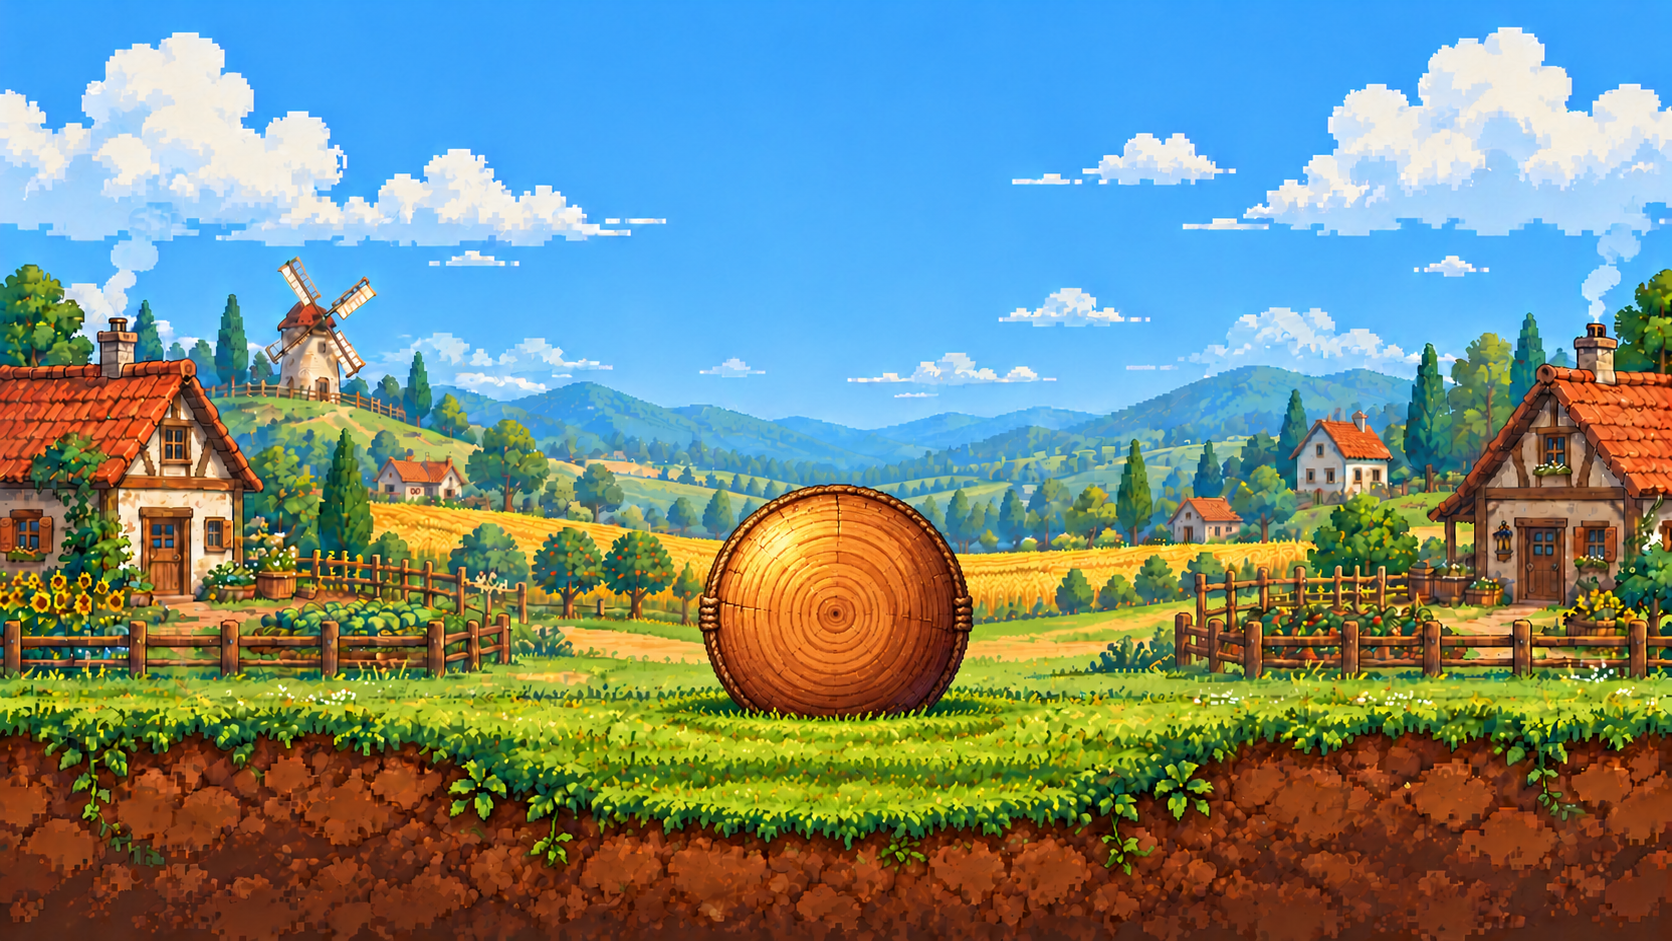
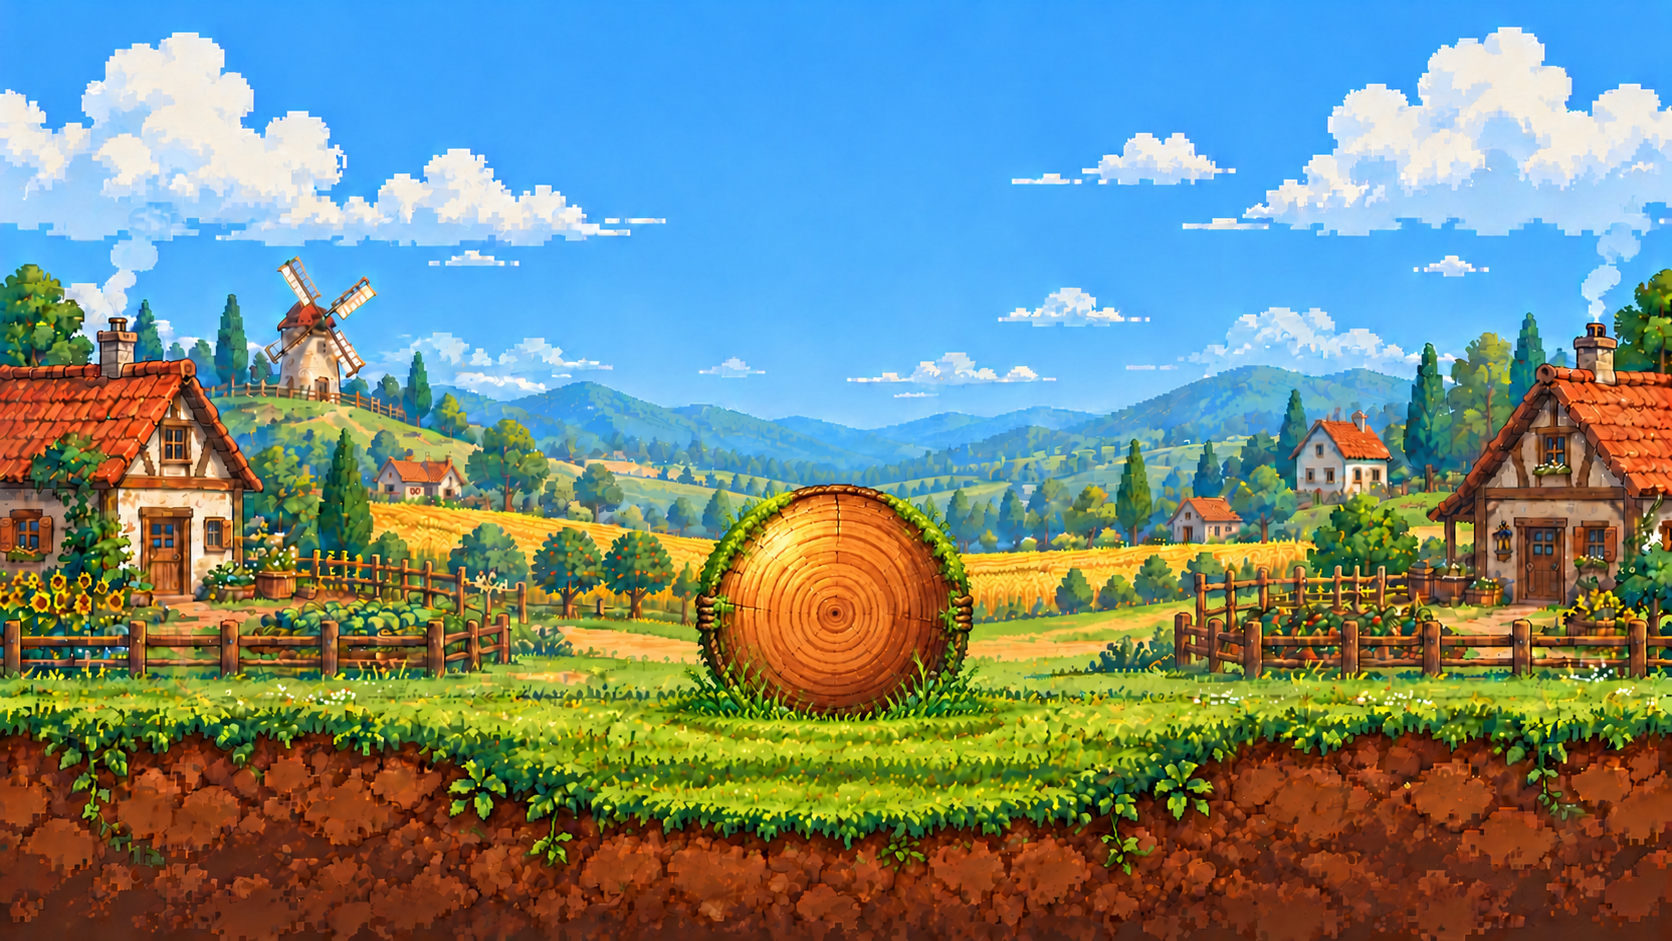
Blend wooden fulcrum into farmland with grass and moss

diff --git a/README.md b/README.md
@@ -4,7 +4,7 @@ A local two-player 2D pixel-art game made with Unity and VS Code. A chibi boy an
 
 <p align="center"><img src="Docs/gameplay_layout.png" alt="Full desktop game layout: two players on a balancing plank above a round wooden fulcrum in a farming village" width="960"></p>
 
-> Full 16:9 layout captured from the Unity scene. The plank and circular wooden-log fulcrum share honey-brown timber, matching rope details and visible woodgrain; farmhouses, fields and a windmill frame the central play area. Character sprite sheets are kept in the project assets and are not displayed in this README.
+> Full 16:9 layout captured from the Unity scene. The plank and circular wooden-log fulcrum share honey-brown timber, matching rope details and visible woodgrain. Grass and moss fringe the fulcrum’s curved rim and base to blend with the land; farmhouses, fields and a windmill frame the central play area. Character sprite sheets are kept in the project assets and are not displayed in this README.
 
 ## Download & play
 
@@ -69,7 +69,7 @@ The plank is a Rigidbody2D hinged at its center with ±16° limits and a gentle 
 - **Smooth motion:** interpolated player/plank physics, 0.08-second movement smoothing and eased action/emote poses. The weighted plank uses angular damping and progressive resistance before its ±16° hinge limits. Restart clears stored movement smoothing.
 - **Physics scene:** player Rigidbody2Ds and capsule colliders on a hinged plank.
 - **32 original animation frames** used for idle, walk, jump and hurt, plus programmatic combat hand effects.
-- **Desktop 16:9 farming village** with farmhouses, fields, clouds, a windmill and a round wooden fulcrum supporting the plank.
+- **Desktop 16:9 farming village** with farmhouses, fields, clouds, a windmill and a grass-trimmed round wooden fulcrum supporting the plank.
 - **Original source retained:** `CharacterController2DP2.bin` is unchanged; the active controller uses Unity 6 `linearVelocity` instead of deprecated `velocity`. Companion scripts were added after the user authorized new code.
 
 ## Controls

diff --git a/Docs/ASSET_GUIDE.md b/Docs/ASSET_GUIDE.md
@@ -1,7 +1,7 @@
 # Current asset guide
 
 - `Assets/Art/Characters/two_players.png`: original transparent 1254 × 1254 sheet. Four frames each for boy idle/walk/jump/hurt, then girl idle/walk/jump/hurt. Native importer Sprite subassets are alpha-trimmed by PlayableSceneBuilder.
-- `Assets/Art/Backgrounds/farm_village_wood_ball.png`: farming village with a circular wooden-log fulcrum, warm woodgrain and rope detail. Replaces the former trunk and roots. Uniform overscan preserves the round shape and aligns the support with the plank.
+- `Assets/Art/Backgrounds/farm_village_wood_ball.png`: farming village with a circular wooden-log fulcrum, warm woodgrain, rope detail and a green grass/moss fringe along the curved rim and base. Replaces the former trunk and roots. Uniform overscan preserves the round shape and aligns the support with the plank.
 - `Assets/Art/Props/farm_balance_plank.png`: transparent rustic plank, rope-bound ends and a central wooden saddle.
 - `Assets/Art/UI/pixel_hand.png`: native pixel hand effect used for punch/push feedback.
 - `Assets/Art/Fonts/Tiny5.ttf`: pixel font under SIL OFL 1.1; license alongside the font.
@@ -16,3 +16,5 @@ The current wooden ball is reduced about 25% for a more balanced composition. It
 ### Player scorecard icons
 
 The boy and girl scorecards reuse each character’s first idle Sprite subasset from `two_players.png` as a UI Image. Each icon preserves its aspect ratio inside a small timber badge beside the name/health/wins text; no extra texture import or generated portrait file is required.
+
+The grass-trimmed fulcrum edit retains the 1672 × 941 canvas and round support placement. Its top contact point is clear for the plank. The exact built-in imagegen edit prompt is stored as `grass_wooden_fulcrum` in `generation_prompts.json`.

diff --git a/Docs/VALIDATION.md b/Docs/VALIDATION.md
@@ -66,3 +66,7 @@ The earlier 17-test suite passed on Unity 6000.3.26f1 after the popup and audio 
 All 20 PlayMode tests passed on Unity 6000.3.26f1 after these changes. Winner celebrations were checked for both players, including expiry, draw behavior, victory audio and immediate restart cleanup. The movement test exercises acceleration, reversal, stopping and restart drift. The plank test measures per-step angle changes, hinge bounds and angular settling after a repeatable impulse, then confirms it still responds to uneven player weight. Physics interpolation is enabled on both characters and the plank.
 
 The updated full-layout screenshot includes matching boy/girl icons in the two farm scorecards. Frame-rate perception and controller feel should still be checked on the target device; automated physics checks do not measure display performance. Original CharacterController2DP2.bin is unchanged. No app or APK was created.
+
+## Grass and moss on the round fulcrum
+
+The existing background was edited with built-in imagegen to add a grass/moss fringe and ground tufts around the wooden circle. The 1672 × 941 canvas, asset GUID and scene placement are retained. Unity 6000.3.26f1 imported the image and captured the refreshed 1920 × 1080 layout successfully; the image was visually inspected for round support proportions, exposed plank contact, player icons and clear HUD. This is an artwork-only update; the 20-test gameplay result above is from the preceding gameplay verification and was not rerun. No app/APK was built.

diff --git a/Docs/DEVELOPMENT.md b/Docs/DEVELOPMENT.md
@@ -69,3 +69,7 @@ A sole winner automatically triggers a 2.4-second gold “I DID IT!” emote and
 Both player Rigidbody2Ds and the plank render with interpolation. Movement smoothing is 0.08 seconds, uses an explicit fixed physics timestep, and resets its stored velocity on a new round. Locomotion frames follow grounding and actual horizontal speed, while action/victory lean and bob offsets ease toward their target poses. The original .bin remains unchanged.
 
 The plank now has mass 7 and angular damping 2.5. Centering torque is 0.75 per degree; quadratic edge resistance (4) begins at 11 degrees before the existing ±16-degree hinge stops. These settings soften the swing without removing the players’ effect on balance. GameManager exposes the three torque settings for tuning. Tests exercise acceleration/reversal/stopping and the plank’s bounded, continuous, damped response.
+
+## Grass-trimmed wooden fulcrum
+
+Edited the existing village background with built-in imagegen to add grass and moss along the circular wooden support’s rim, sides and ground contact. The exposed woodgrain face and top plank contact remain clear; the canvas remains 1672 × 941. The existing asset path and Unity GUID are retained. The prompt is recorded in Docs/generation_prompts.json.
